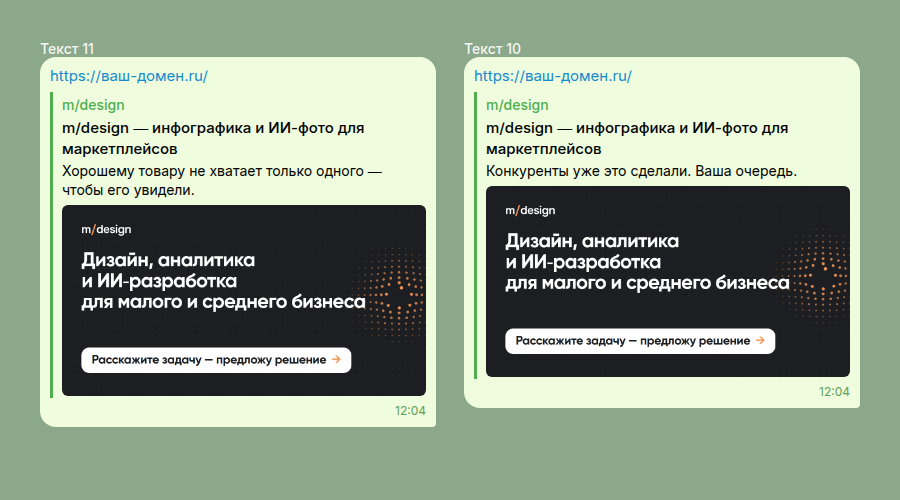
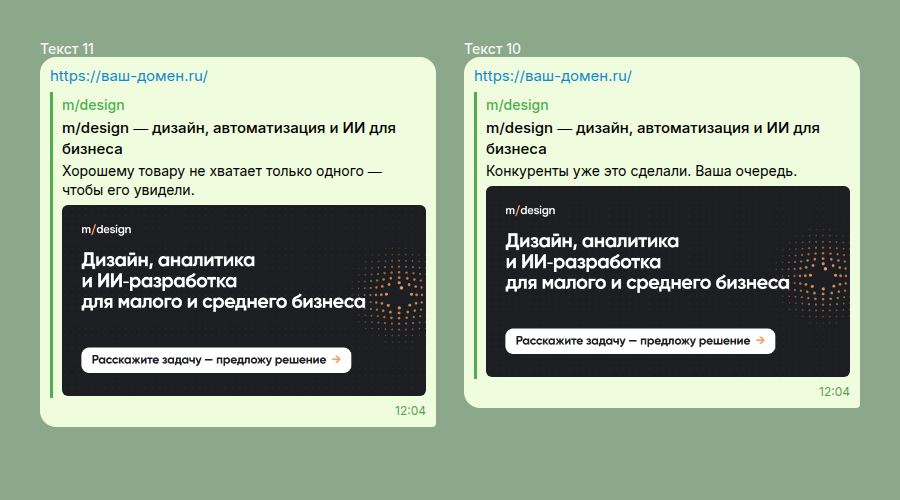
Превью главной: новый заголовок «дизайн, автоматизация и ИИ для бизнеса»
Claude-Session: https://claude.ai/code/session_01Ea7sNnJutX3PZfqWbVPvng

Changed region(s): [[0.5289, 0.24, 0.9333, 0.33], [0.0622, 0.24, 0.4356, 0.33]]

diff --git a/docs/site/og-mockup/telegram2.html b/docs/site/og-mockup/telegram2.html
@@ -21,8 +21,8 @@ body { width: 900px; background: #8BA88A; font: 400 15px/21px Inter, sans-serif;
 </style></head><body>
 <div class="row">
   <div><p class="cap">Текст 11</p>
-    <div class="msg"><a>https://ваш-домен.ru/</a><div class="card"><b>m/design</b><div class="t">m/design — инфографика и ИИ-фото для маркетплейсов</div><div class="d">Хорошему товару не хватает только одного — чтобы его увидели.</div><img src="og-home-final.png"></div><p class="time">12:04</p></div></div>
+    <div class="msg"><a>https://ваш-домен.ru/</a><div class="card"><b>m/design</b><div class="t">m/design — дизайн, автоматизация и ИИ для бизнеса</div><div class="d">Хорошему товару не хватает только одного — чтобы его увидели.</div><img src="og-home-final.png"></div><p class="time">12:04</p></div></div>
   <div><p class="cap">Текст 10</p>
-    <div class="msg"><a>https://ваш-домен.ru/</a><div class="card"><b>m/design</b><div class="t">m/design — инфографика и ИИ-фото для маркетплейсов</div><div class="d">Конкуренты уже это сделали. Ваша очередь.</div><img src="og-home-final.png"></div><p class="time">12:04</p></div></div>
+    <div class="msg"><a>https://ваш-домен.ru/</a><div class="card"><b>m/design</b><div class="t">m/design — дизайн, автоматизация и ИИ для бизнеса</div><div class="d">Конкуренты уже это сделали. Ваша очередь.</div><img src="og-home-final.png"></div><p class="time">12:04</p></div></div>
 </div>
 </body></html>
